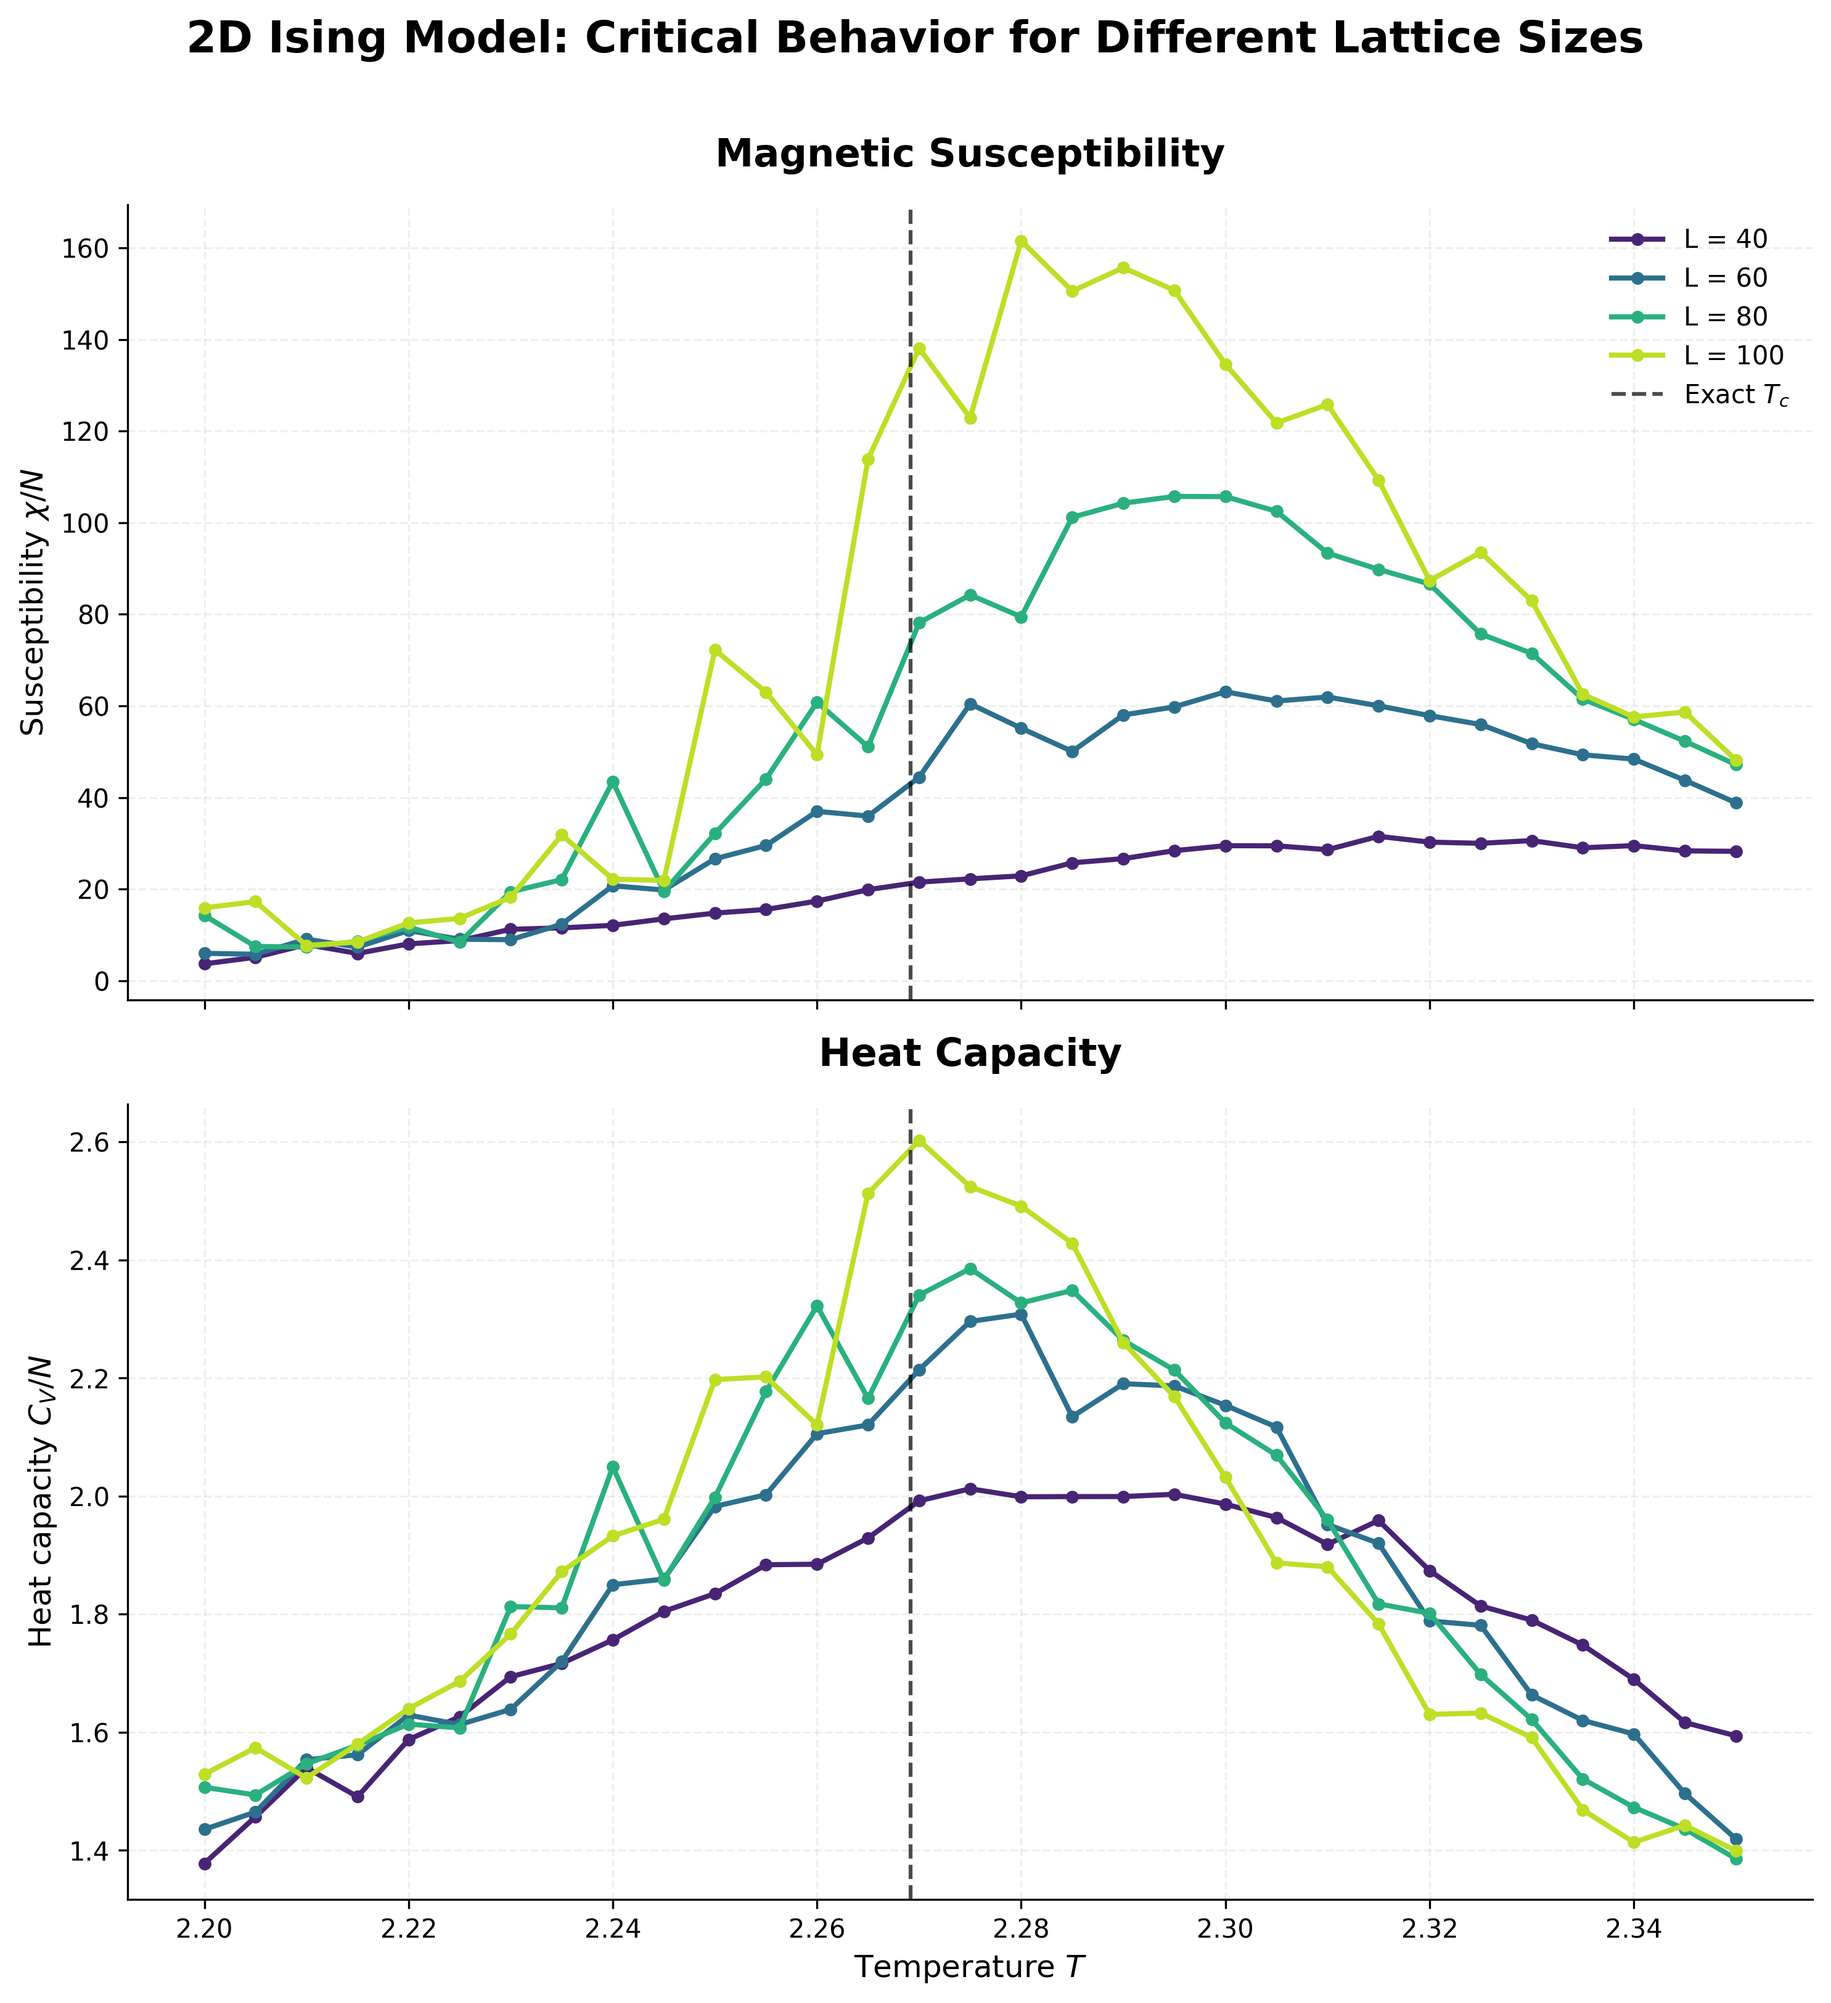
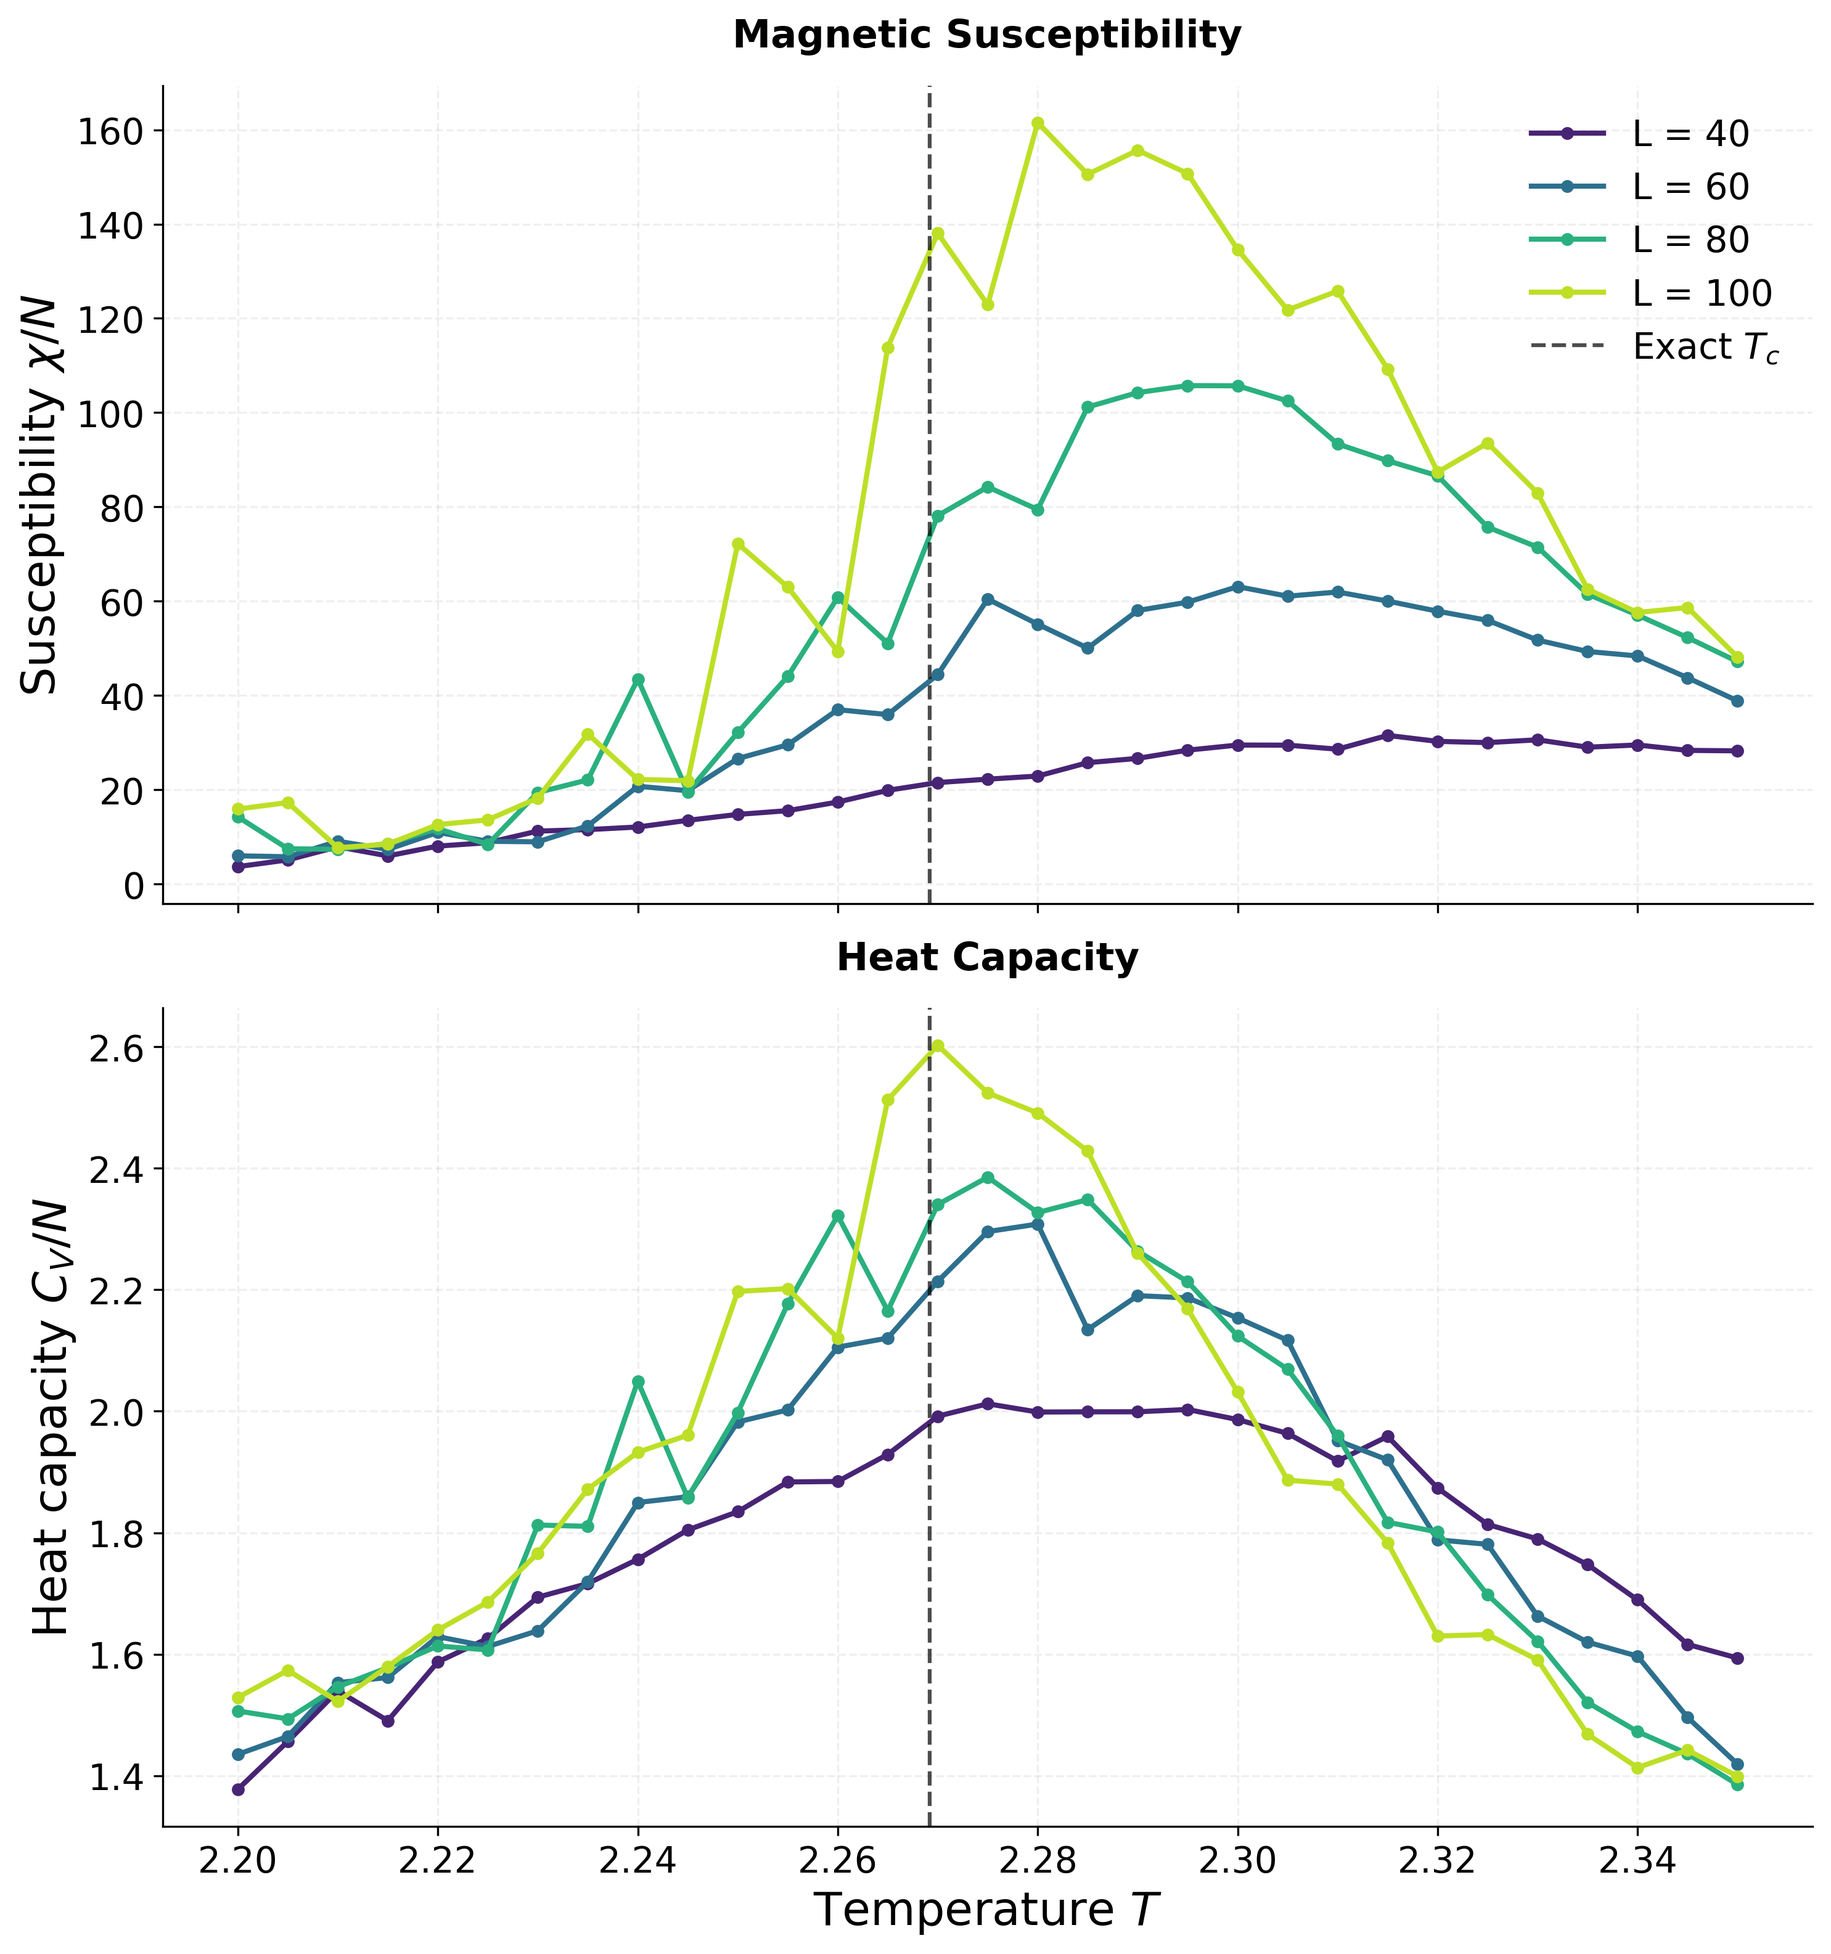
saved the new figures

diff --git a/Lenz-Ising-Model/Code /task 8 data /chi_cv_vsT_plot.py b/Lenz-Ising-Model/Code /task 8 data /chi_cv_vsT_plot.py
@@ -121,10 +121,10 @@ fig.suptitle(
 )'''
 
 fig.tight_layout(rect=[0, 0, 1, 0.97])
-'''
+
 plt.savefig(
     "critical_behavior_comparison.png",
     dpi=300,
-    bbox_inches="tight")'''
+    bbox_inches="tight")
 
 plt.show()
